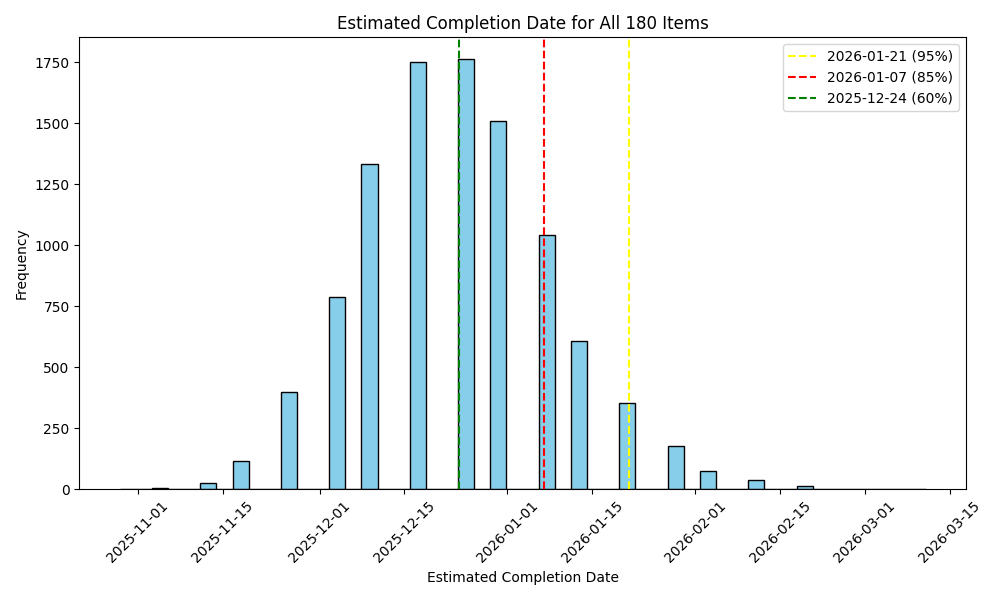
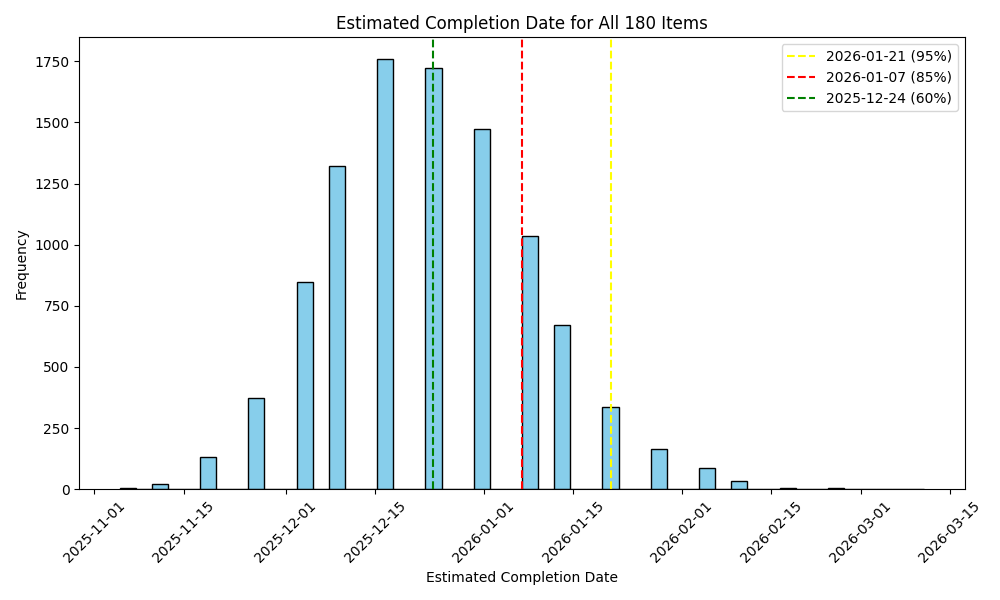
improved input for default values

diff --git a/templates/index.html b/templates/index.html
@@ -48,8 +48,8 @@
             <label for="num_items">Number of Items:</label>
             <input type="number" id="num_items" name="num_items" required />
 
-            <label for="num_completed">Number of Completed Items:</label>
-            <input type="number" id="num_completed" name="num_completed" required />
+            <label for="num_completed">Number of Completed Items: - <i>Default Value = 0</i>:</label>
+            <input type="number" id="num_completed" name="num_completed" />
 
             <label for="timeframe_weeks">Throughput Interval (weeks) - <i>Default Value = 1</i>:</label>
             <input type="number" id="timeframe_weeks" name="timeframe_weeks" />

diff --git a/app.py b/app.py
@@ -40,7 +40,15 @@ def simulate():
         # Parse form input
         try:
             num_items = int(request.form['num_items'])
-            num_completed = int(request.form['num_completed'])
+            # num_completed = int(request.form['num_completed'])
+            num_completed = get_int_form_value(request.form, 'num_completed', 0)
+            if num_completed > num_items:
+                raise ValueError("Number of completed items cannot exceed total number of items.")
+            if num_completed < 0:
+                raise ValueError("Number of completed items cannot be negative.")
+            if num_items <= 0:
+                raise ValueError("Number of items must be a positive integer.")
+            
             timeframe_weeks = get_int_form_value(request.form, 'timeframe_weeks', 1)
             throughput_sigma = get_float_form_value(request.form, 'throughput_sigma', 10)
             start_date = request.form.get('start_date') or datetime.today().strftime('%Y-%m-%d')
